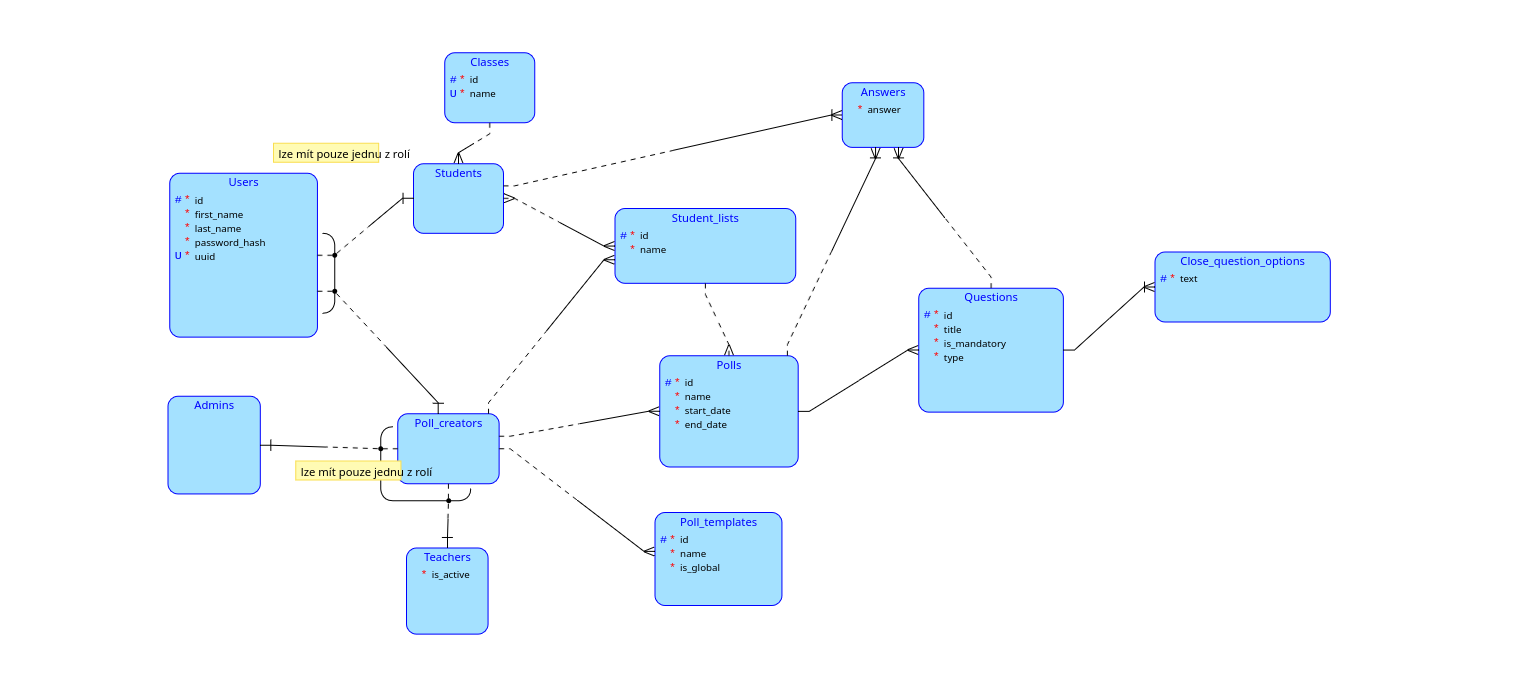
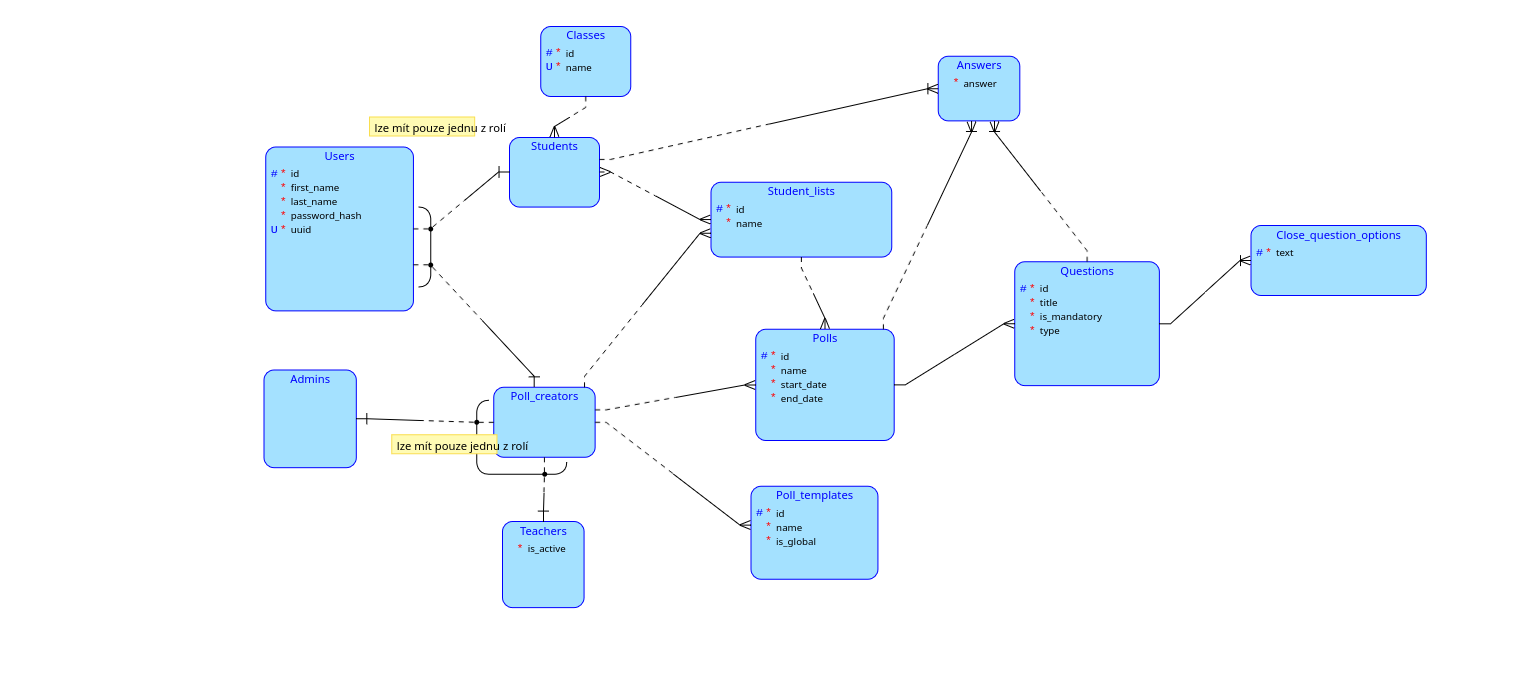
fix: revert

diff --git a/backend/src/main/kotlin/cz/cvut/fit/gykas/entities/Polls.kt b/backend/src/main/kotlin/cz/cvut/fit/gykas/entities/Polls.kt
@@ -10,7 +10,7 @@ import org.jetbrains.exposed.v1.datetime.date
 
 object Polls : IntIdTable("polls", "id") {
     val pollCreator = reference("poll_creators_id", PollCreators)
-    val studentList = optReference("student_lists_id", StudentLists)
+    val studentList = reference("student_lists_id", StudentLists)
     val name = text("name")
     val startDate = date("start_date")
     val endDate = date("end_date")
@@ -19,7 +19,7 @@ object Polls : IntIdTable("polls", "id") {
 class PollEntity(id: EntityID<Int>) : IntEntity(id) {
     companion object : IntEntityClass<PollEntity>(Polls)
     var pollCreator by PollCreatorEntity referencedOn Polls.pollCreator
-    var studentList by StudentListEntity optionalReferencedOn Polls.studentList
+    var studentList by StudentListEntity referencedOn Polls.studentList
     var name by Polls.name
     var startDate by Polls.startDate
     var endDate by Polls.endDate
